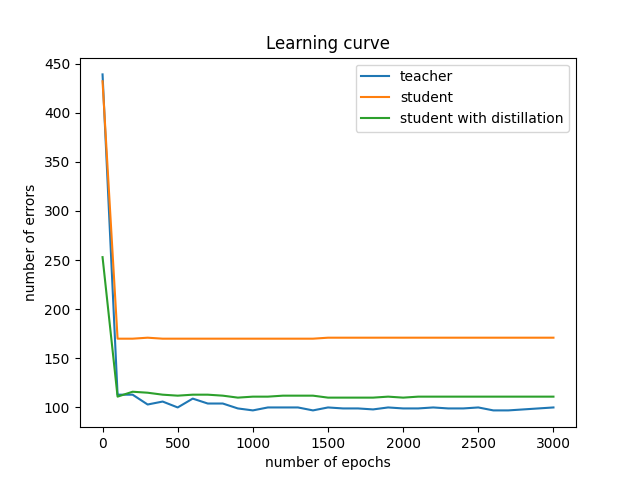
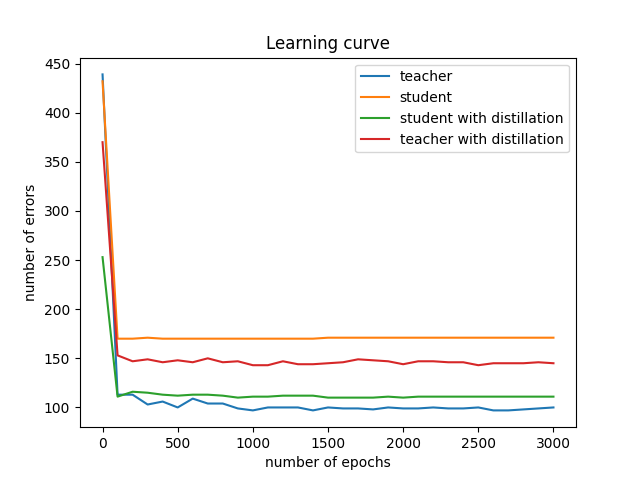
Train teacher model with student's knowledge

diff --git a/train_student_dropout.py b/train_student_dropout.py
@@ -1,0 +1,104 @@
+import time
+import numpy as np
+import torch
+import torch.nn as nn
+import torch.nn.functional as F
+import torch.optim as optim
+import torchvision
+import scheduler
+
+from models import Student
+
+MNIST_DIR = '../mnist/'
+
+# Create gpu device
+device = torch.device('cuda')
+print(device)
+
+# Create model
+student_model = Student(use_dropout=True)
+
+# Transfer
+student_model.to(device)
+
+# Define Loss
+criterion = nn.CrossEntropyLoss(reduction='mean')
+
+# Define optimizer
+optimizer = optim.SGD(student_model.parameters(), lr=0.1)
+
+# Define schedule for learning rate and momentum
+lr_init = 0.1
+gamma = 0.998
+lrs = np.zeros(shape=(3000,))
+lr = lr_init
+for step in range(3000):
+    lrs[step] = lr
+    lr *= gamma
+momentums = np.concatenate([np.linspace(0.5, 0.99, 500), np.full(shape=(2500,), fill_value=0.99)])
+list_lr_momentum_scheduler = scheduler.ListScheduler(optimizer, lrs=lrs, momentums=momentums)
+
+# Load dataset
+train_data = torchvision.datasets.MNIST(MNIST_DIR, train=True, download=True,
+                                        transform=torchvision.transforms.Compose([
+                                            torchvision.transforms.ToTensor(), # image to Tensor
+                                            torchvision.transforms.Normalize((0.1307,), (0.3081,)) # image, label
+                                            ]))
+
+train_loader = torch.utils.data.DataLoader(train_data, batch_size=100, shuffle=True)
+
+student_model.train()
+for epoch_count in range(3000):
+    print('epoch: {}'.format(epoch_count))
+
+    ## Optimize parameters
+    total_loss = 0.0
+    for step_count, (x, y_gt) in enumerate(train_loader):
+        # Initialize gradients with 0
+        optimizer.zero_grad()
+
+        # Transfer device
+        x = x.to(device)
+        y_gt = y_gt.to(device)
+
+        # Predict
+        x = torch.flatten(x, start_dim=1, end_dim=-1)
+        y_pred = student_model(x)
+
+        # Compute loss (foward propagation)
+        loss = criterion(y_pred, y_gt)
+        
+        # Compute gradients (backward propagation)
+        loss.backward()
+        
+        # Update parameters (SGD)
+        optimizer.step()
+
+        # Clip weight
+        max_norm = 15.0
+        named_parameters = dict(student_model.named_parameters())
+        for layer_name in ['layer1', 'layer2', 'layer3']:
+            with torch.no_grad():
+                weight = named_parameters['{}.weight'.format(layer_name)]
+                bias = named_parameters['{}.bias'.format(layer_name)].unsqueeze(1)
+                weight_bias = torch.cat((weight, bias),dim=1)
+                norm = torch.norm(weight_bias, dim=1, keepdim=True).add_(1e-6)
+                clip_coef = norm.reciprocal_().mul_(max_norm).clamp_(max=1.0)
+                weight.mul_(clip_coef)
+                bias.mul_(clip_coef)
+                
+        total_loss += loss.item()
+        if step_count % 100 == 0:
+            print('progress: {}\t/ {}\tloss: {}'.format(step_count, len(train_loader), loss.item()))
+
+
+    list_lr_momentum_scheduler.step()
+    print('loss: {}'.format(total_loss / len(train_loader)))
+
+    ## Save model
+    if epoch_count % 100 == 0:
+        torch.save(student_model.state_dict(), './data/student-dropout-{}.pth'.format(epoch_count))
+
+
+## Save model
+torch.save(student_model.state_dict(), './data/student-dropout.pth')

diff --git a/evaluate.py b/evaluate.py
@@ -54,19 +54,22 @@ def evaluate(model_type='teacher', prefix='teacher'):
     return error_counts
 
 # Evaluate accuracy
-error_counts_teacher = evaluate('teacher', 'teacher')
-error_counts_student = evaluate('student', 'student')
-error_counts_student_distill = evaluate('student', 'student-distill')
+# error_counts_teacher = evaluate('teacher', 'teacher')
+# error_counts_student = evaluate('student', 'student')
+# error_counts_student_distill = evaluate('student', 'student-distill')
+# error_counts_teacher_distill = evaluate('teacher', 'teacher-distill')
 
 # Store as file
-np.save('./data/error_counts_teacher.npy', error_counts_teacher)
-np.save('./data/error_counts_student.npy', error_counts_student)
-np.save('./data/error_counts_student_distill.npy', error_counts_student_distill)
+# np.save('./data/error_counts_teacher.npy', error_counts_teacher)
+# np.save('./data/error_counts_student.npy', error_counts_student)
+# np.save('./data/error_counts_student_distill.npy', error_counts_student_distill)
+# np.save('./data/error_counts_teacher_distill.npy', error_counts_teacher_distill)
 
 # # Load from file
-# error_counts_teacher = np.load('./data/error_counts_teacher.npy')
-# error_counts_student = np.load('./data/error_counts_student.npy')
-# error_counts_student_distill = np.load('./data/error_counts_student_distill.npy')
+error_counts_teacher = np.load('./data/error_counts_teacher.npy')
+error_counts_student = np.load('./data/error_counts_student.npy')
+error_counts_student_distill = np.load('./data/error_counts_student_distill.npy')
+error_counts_teacher_distill = np.load('./data/error_counts_teacher_distill.npy')
 
 # Prepare to plot
 fig, ax = plt.subplots()
@@ -75,10 +78,12 @@ fig, ax = plt.subplots()
 ax.plot(range(0, 3001, 100), error_counts_teacher, label='teacher')
 ax.plot(range(0, 3001, 100), error_counts_student, label='student')
 ax.plot(range(0, 3001, 100), error_counts_student_distill, label='student with distillation')
+ax.plot(range(0, 3001, 100), error_counts_teacher_distill, label='teacher with distillation')
 ax.set_xlabel('number of epochs')
 ax.set_ylabel('number of errors')
 ax.set_title('Learning curve')
 ax.legend()
 
 # Show
-plt.show()
+#plt.show()
+plt.savefig('learning_curve.png')

diff --git a/models.py b/models.py
@@ -21,14 +21,23 @@ class Teacher(nn.Module):
         return self.layer3(x)
 
 class Student(nn.Module):
-    def __init__(self):
+    def __init__(self, use_dropout=False):
         # python requires to call ancestor's initilizer manually!
         super(Student, self).__init__()
+        self.use_dropout = use_dropout
         self.layer1 = nn.Linear(784, 800)
         self.layer2 = nn.Linear(800, 800)
         self.layer3 = nn.Linear(800, 10)
+        self.dropout_20 = nn.Dropout(0.2)
+        self.dropout_50 = nn.Dropout(0.5)
 
     def forward(self, x):
+        if self.use_dropout:
+            x = self.dropout_20(x)
         x = F.relu(self.layer1(x))
+        if self.use_dropout:
+            x = self.dropout_50(x)
         x = F.relu(self.layer2(x))
+        if self.use_dropout:
+            x = self.dropout_50(x)
         return self.layer3(x)
